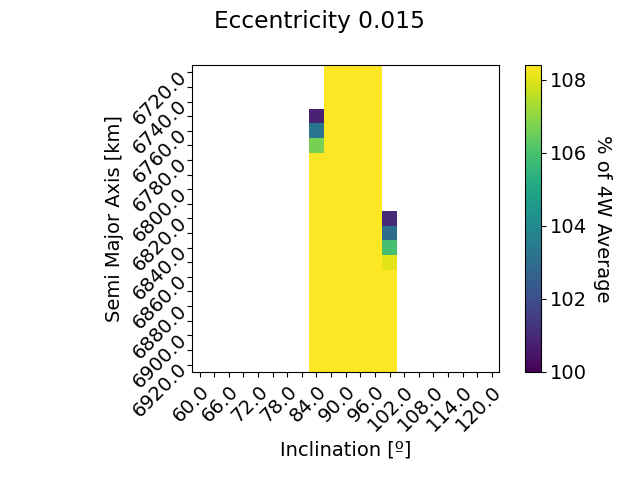
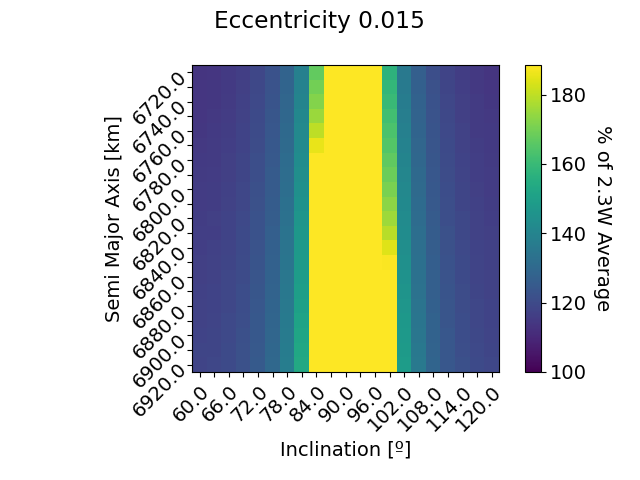
Updated power average sims with new limit value.

diff --git a/Power_SIM_2024/tudat_implementation/main.py b/Power_SIM_2024/tudat_implementation/main.py
@@ -187,14 +187,15 @@ if __name__ == "__main__":
 
     ### Plots power average data. 
     # TODO: Put this in its own separate function. 
-    if plotAvgs := False:
+    if plotAvgs := True:
         plot_average_heatmap(
             eccVals= eccVals,
             incVals= incVals,
             semiMajorVals= semiMajorVals,
             dataDir= dataDir,
-            runCount= 5,
-            showUncompliant= False
+            runCount= 1,
+            showUncompliant= False,
+            powerReq= 2.3
         )
 
     ##### Battery charge operations #####
@@ -291,7 +292,7 @@ if __name__ == "__main__":
         )
 
     ### Plots battery charge vs time.
-    if batteryChargePlots := True:
+    if batteryChargePlots := False:
         plot_battery_charge(
             dataDir         = dataDir,
             battMax         = battMax,

diff --git a/Power_SIM_2024/tudat_implementation/assist_functions.py b/Power_SIM_2024/tudat_implementation/assist_functions.py
@@ -51,7 +51,7 @@ def plot_average_heatmap(
 
         fig, ax = plt.subplots()
 
-        # Checks whether we want to see uncompliant (<100% of 4W) results.
+        # Checks whether we want to see uncompliant (<100% of power requirement) results.
         if showUncompliant:
             im = ax.imshow(data / powerReq * 100)
         else:
@@ -74,7 +74,7 @@ def plot_average_heatmap(
 
         # Create colorbar
         cbar = ax.figure.colorbar(im, ax=ax)
-        cbar.ax.set_ylabel("% of 4W Average", rotation=-90, va="bottom")
+        cbar.ax.set_ylabel(f"% of {powerReq}W Average", rotation=-90, va="bottom")
 
         fig.suptitle(f"Eccentricity {eccentricity}")
 
